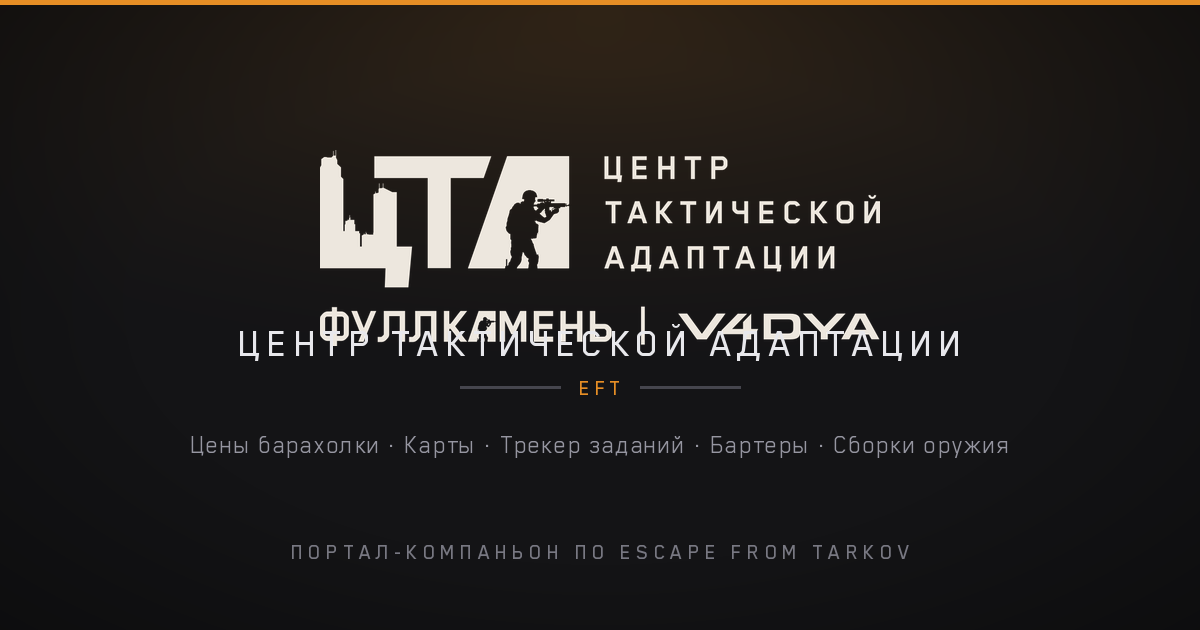
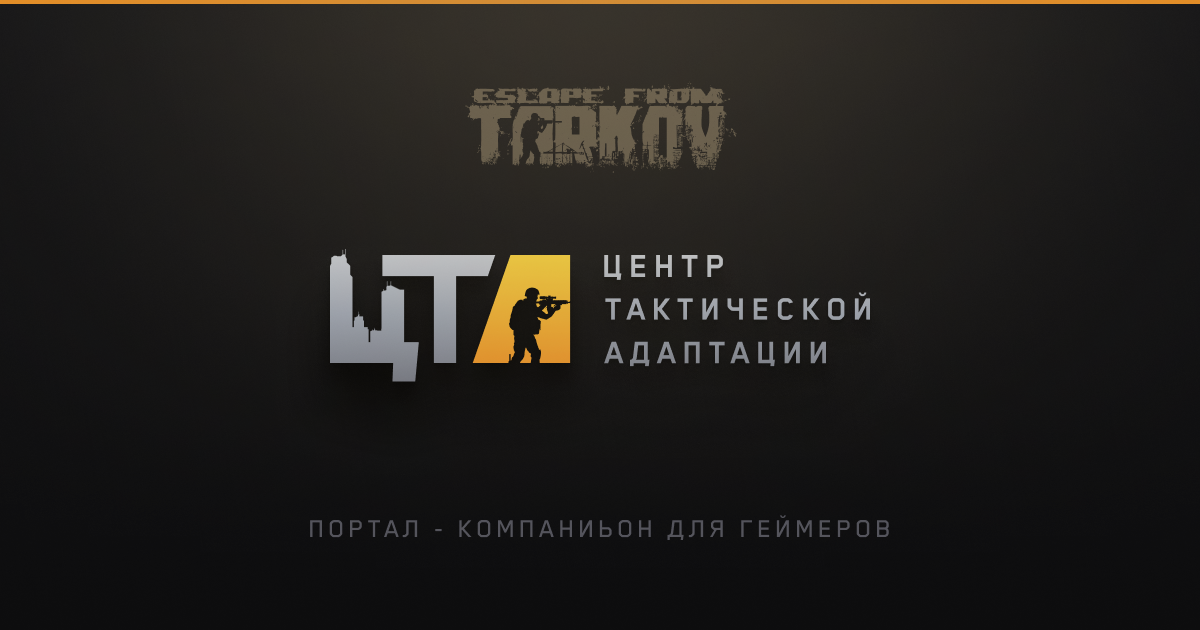
revert(og): вернуть статический /og.png (обновлён вручную), убрать генератор
V4DYA заменил public/og.png на исправленный вариант (без дескриптора и дубля
«ЦЕНТР ТАКТИЧЕСКОЙ АДАПТАЦИИ»). Файловый opengraph-image.tsx перебивал бы его,
поэтому удалён; метадата снова ссылается на /og.png.

Changed region(s): [[0.185, 0.1206, 0.8017, 0.6333], [0.2467, 0.8143, 0.74, 0.9048], [0.1542, 0.6937, 0.8325, 0.7238]]

diff --git a/src/app/layout.tsx b/src/app/layout.tsx
@@ -32,14 +32,20 @@ export const metadata: Metadata = {
     url: SITE_URL,
     title: "ЦТА — портал по Escape from Tarkov",
     description: SITE_DESCRIPTION,
-    // og:image даёт файловый генератор src/app/opengraph-image.tsx (логотип без
-    // дескриптора). Статический /og.png убран, чтобы не было дубля тега.
+    images: [
+      {
+        url: "/og.png",
+        width: 1200,
+        height: 630,
+        alt: "ЦТА — Центр тактической адаптации, портал по Escape from Tarkov",
+      },
+    ],
   },
   twitter: {
     card: "summary_large_image",
     title: "ЦТА — портал по Escape from Tarkov",
     description: SITE_DESCRIPTION,
-    // twitter:image наследует og:image (генератор выше).
+    images: ["/og.png"],
   },
   robots: {
     index: true,
